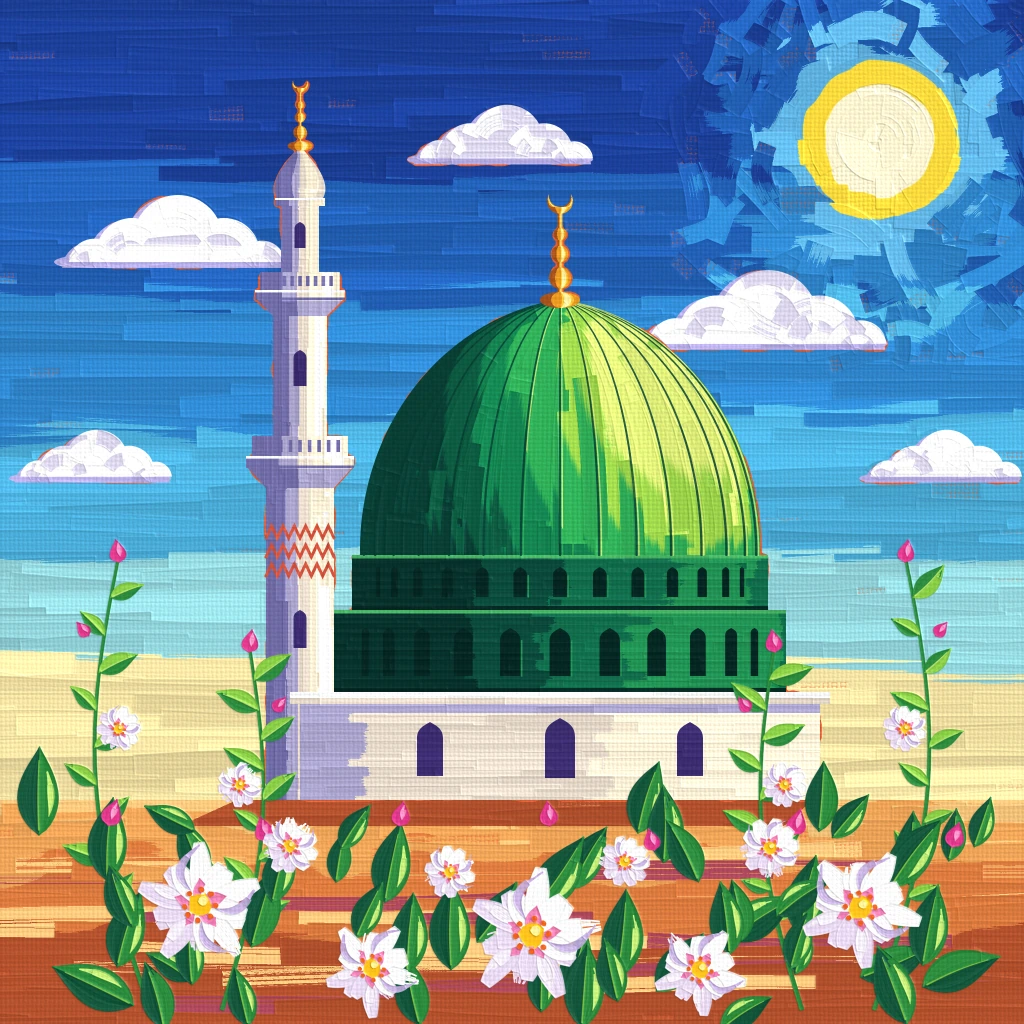
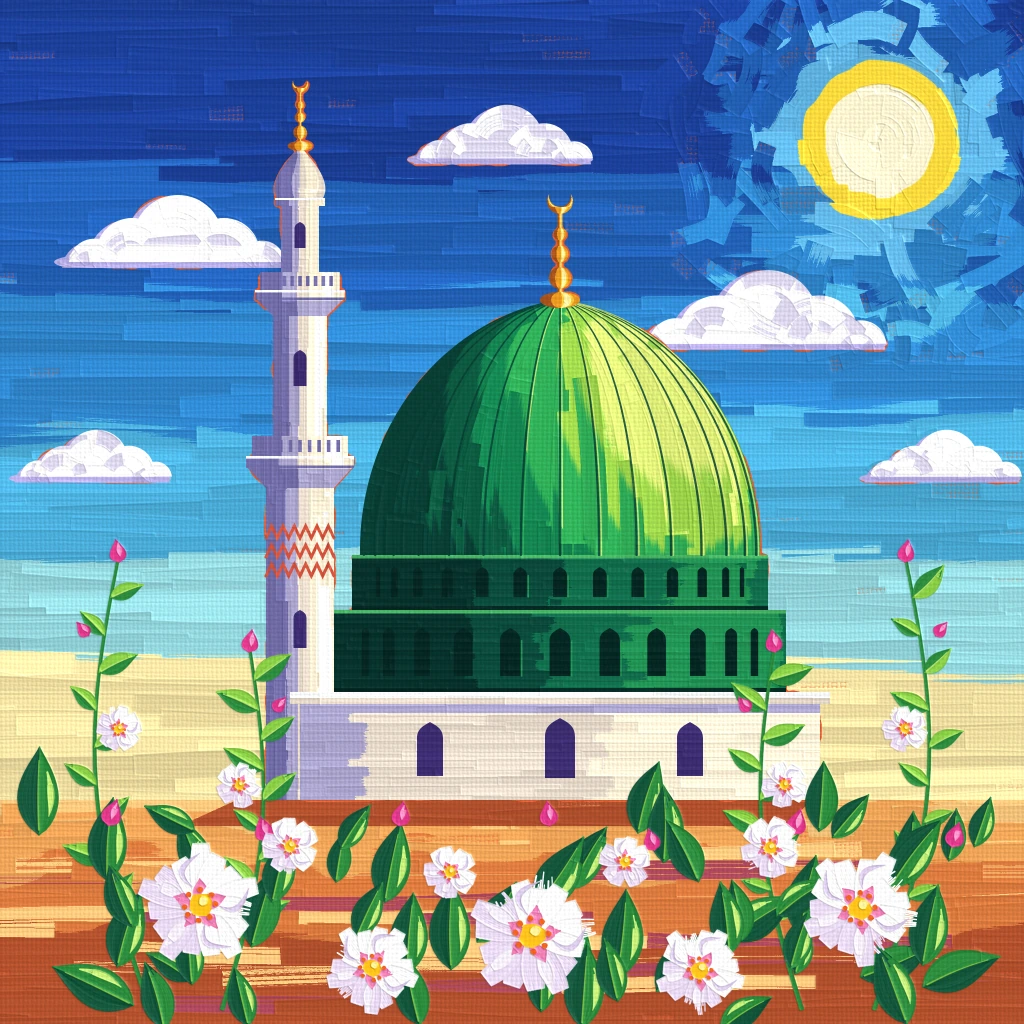
Atölye: airbrush, duvar resmi, akrilik dökme, alkol mürekkebi, tek fırça gözden geçirildi
Claude-Session: https://claude.ai/code/session_01Q8CfoBGMPN7gfLWQYpMs1J

diff --git a/atolye/stiller/S-069-renkli-kazima/ornek.html b/atolye/stiller/S-069-renkli-kazima/ornek.html
@@ -372,7 +372,7 @@
       }
       return false;
     };
-    const mesafe = (x, y) => lerp(10.5, 3.9, isikG(x, y));
+    const mesafe = (x, y) => lerp(12.5, 4.0, Math.pow(isikG(x, y), 0.9));
     const izle = (x0, y0, yonIsaret, Lmax) => {
       const out = []; let x = x0, y = y0, px = 0, py = 0;
       for (let s2 = 0; s2 < Lmax; s2 += 1.5) {
@@ -401,7 +401,7 @@
       for (let i = 1; i < n; i++) {
         const t = i / (n - 1), [x, y] = pts[i];
         const L = isikG(x, y), d = mesafe(x, y);
-        const w = clamp(d * (0.16 + 0.62 * Math.pow(L, 1.2)) * bas, 0.45, 3.4) * Math.pow(Math.sin(Math.PI * clamp(t * 0.94 + 0.03, 0, 1)), 0.45) * (0.85 + 0.3 * nC(ph + i * 0.05, 3.1));
+        const w = clamp(d * (0.12 + 0.62 * Math.pow(L, 1.25)) * bas, 0.42, 3.4) * Math.pow(Math.sin(Math.PI * clamp(t * 0.94 + 0.03, 0, 1)), 0.45) * (0.85 + 0.3 * nC(ph + i * 0.05, 3.1));
         sG.lineWidth = Math.max(0.35, w);
         sG.beginPath(); sG.moveTo(pts[i - 1][0], pts[i - 1][1]); sG.lineTo(x, y); sG.stroke();
       }
@@ -430,7 +430,11 @@
         const dd = BDER[i], bi = BNO[i], s = BUL[bi][2];
         const ust = sstep(BUL[bi][1] + 18 * s, BUL[bi][1] - 40 * s, Yy);
         const c = clamp(0.12 + 0.8 * ust - dd / (40 * s) * 0.3, 0.04, 0.9);
-        m = cizgiMaske(dd / 3.6 + (nA(X / 20, Yy / 20) - 0.5) * 0.25, 3.6 * S, c, kaba);
+        // dış kenarı izleyen birkaç kontur, içi yatay dalgalı tarama (ortada göz gibi kapanan halka kalmasın)
+        const kon = cizgiMaske(dd / 3.6 + (nA(X / 20, Yy / 20) - 0.5) * 0.25, 3.6 * S, c, kaba);
+        const ic = cizgiMaske((Yy + 2.2 * Math.sin(X / 13 + bi)) / 3.3, 3.3 * S, clamp(c * 0.85, 0.05, 0.8), kaba);
+        const kt = sstep(13 * s + 2, 9 * s + 1, dd);
+        m = kon * kt + ic * (1 - kt);
         if (dd < 1.6) m = 1;
         col = karR(col, [255, 255, 255], 0.35);
       } else {
@@ -472,8 +476,8 @@
       const N = Yy < 206 ? 18 : Yy < 300 ? 26 : 32, sp = Math.max(0.6, (Math.PI / N) * r * Math.cos(u)) * S;
       m = cizgiMaske((u + Math.PI / 2) / (Math.PI / N), sp, clamp(Math.pow(L, 1.4) * 0.92, 0, 0.92) * Math.min(1, sp / 3), kaba);
       // ışıklı yanda yatay çapraz tarama (silindiri saran hafif yaylar), gölgede seyrek benek
-      const yay = (Yy + Math.cos(u) * 3.5) / 3;
-      if (L > 0.5) m = Math.max(m, cizgiMaske(yay, 3 * S, (L - 0.5) * 1.2, kaba));
+      const yay = (X * 0.57 - Yy * 0.82 + Math.cos(u) * 4) / 2.8;
+      if (L > 0.66) m = Math.max(m, cizgiMaske(yay, 2.8 * S, (L - 0.66) * 1.6, kaba));
       else { const cs = 3, gx = X / cs, gy = Yy / cs, ix = Math.floor(gx), iy = Math.floor(gy); if (hash(ix + 77, iy + 5) < 0.2 * L + 0.04) m = Math.max(m, sstep(0.3, 0.1, Math.hypot(gx - ix - 0.5, gy - iy - 0.5))); }
       // taş sıraları: siyah derz, hemen altında ışıklı kazıma
       const per = Yy > 488 ? 19 : 17, fy = ((Yy - (Yy > 488 ? 500 : 334)) % per + per) % per;

diff --git a/atolye/stiller/S-042-akrilik/ornek.html b/atolye/stiller/S-042-akrilik/ornek.html
@@ -464,12 +464,12 @@
   }
   // çiçekler: her taç yaprak merkezden dışa 2–3 filbert darbesi; gölgedeki yapraklar leylak, ışıktakiler beyaz,
   // ışık alanların gölge kenarına ince leylak darbe, dibe pembe darbe; göbek kalın boya tıpışları
-  const pprof = (t) => 0.2 + 0.8 * Math.sin(Math.PI * Math.min(1, 0.1 + t * 0.78));
-  const leylakK = mixc(C.cicG, [150, 120, 200], 0.45);
+  const pprof = (t) => 0.35 + 0.65 * Math.sin(Math.PI * Math.min(1, 0.1 + t * 0.68));
+  const leylakK = mixc(C.cicG, [150, 120, 200], 0.25);
   for (const c of B.cicekler) {
     const ns = c.r > 40 ? 3 : 2, yap = SAHNE.tacYapraklari(c).map((e) => ({ e, isik: Math.cos(e.aci + Math.PI / 4) })).sort((a, b) => a.isik - b.isik);
     for (const { e, isik } of yap) {
-      const rx = e.rx, ry = e.ry, temel = isik > -0.15 ? C.cic : C.cicG, yayil = 1.2;
+      const rx = e.rx, ry = e.ry, temel = isik > -0.15 ? C.cic : C.cicG, yayil = 0.9;
       const dar = (dl, u0, u1, lat, n) => {
         const ca = Math.cos(e.aci + dl), sa = Math.sin(e.aci + dl), nx = -Math.sin(e.aci), ny = Math.cos(e.aci), bk = (R() - 0.5) * 0.08 * u1, pts = [];
         for (let j = 0; j <= n; j++) { const t = j / n, u = u0 + (u1 - u0) * t, b = bk * Math.sin(Math.PI * t) + lat * Math.sin(Math.PI * Math.min(1, 0.15 + t * 0.85)); pts.push([c.x + u * ca + nx * b, c.y + u * sa + ny * b]); }
@@ -478,11 +478,11 @@
       for (let k = 0; k < ns; k++) {
         const dl = ((k + 0.5) / ns - 0.5) * yayil / (ns === 3 ? 1.5 : 2) * 2 + (R() - 0.5) * 0.08, cd = Math.cos(dl), sd = Math.sin(dl);
         const sEnd = (2 * cd / rx) / (cd * cd / (rx * rx) + sd * sd / (ry * ry)) * (0.94 + R() * 0.06);
-        boyaFirca(dar(dl, c.r * 0.08, sEnd, 0, 14), ry * 2 * (1.05 / ns) * 1.25, temel, { prof: pprof, kuru: R() < 0.22, jit: 12 });
+        boyaFirca(dar(dl, c.r * 0.08, sEnd * 0.97, 0, 14), ry * 2 * (1.05 / ns) * 1.25, temel, { prof: pprof, kuru: R() < 0.12, jit: 12 });
       }
       if (isik > -0.15) {
         const nx = -Math.sin(e.aci), ny = Math.cos(e.aci), yan = nx * 0.7 - ny * 0.7 > 0 ? -1 : 1; // ışıktan uzak kenar
-        boyaFirca(dar(0, c.r * 0.22, rx * 1.85, yan * ry * 0.72, 12), ry * 0.34, leylakK, { prof: (t) => Math.sin(Math.PI * t), kuru: true, jit: 8, a: 0.85 });
+        boyaFirca(dar(0, c.r * 0.3, rx * 1.6, yan * ry * 0.66, 12), ry * 0.22, leylakK, { prof: (t) => Math.sin(Math.PI * t), kuru: false, jit: 6, a: 0.7 });
       } else {
         boyaFirca(dar(0.1, c.r * 0.25, rx * 1.7, 0, 12), ry * 0.5, mixc(C.cicG, C.cic, 0.55), { prof: (t) => Math.sin(Math.PI * t), kuru: true, jit: 8, a: 0.9 });
       }

diff --git a/atolye/stiller/S-056-kuru-boya/ornek.html b/atolye/stiller/S-056-kuru-boya/ornek.html
@@ -637,7 +637,12 @@
   katman((x) => tacCiz(x, hex('#F7A2C0'), (c, e, yon) => 0.85 + 0.15 * (yon < 0), { aralik: 1.4, kal: 1.6, boy: [0.8, 0.35] }), { bx: cBx, guc: 1.15 });
   katman((x) => tacCiz(x, hex('#D8387A'), (c, e, yon) => 0.85, { aralik: 1.7, kal: 1.55, boy: [0.3, 0.3] }), { bx: cBx, guc: 1.1 });
   katman((x) => tacCiz(x, hex('#9A7FD6'), (c, e, yon) => (yon < -0.1 ? 0.8 : yon < 0.3 ? 0.35 : 0.0), { aralik: 2.0, kal: 1.45, boy: [0.55, 0.45] }), { bx: cBx });
-  katman((x) => tacCiz(x, hex('#FFF4F8'), (c, e, yon) => (yon > 0.2 ? 0.85 : 0.0), { aralik: 1.8, kal: 1.8, boy: [0.75, 0.3] }), { bx: cBx, opq: 0.6 });
+  // ışığa bakan taç yapraklarının uçları beyazla cilalanmış
+  katman((x) => { B.cicekler.forEach((c) => SAHNE.tacYapraklari(c).forEach((e) => {
+    const yon = Math.cos(e.aci) * 0.74 + Math.sin(e.aci) * -0.67; if (yon < 0.05) return;
+    const tx = e.cx + Math.cos(e.aci) * e.rx * 0.55, ty = e.cy + Math.sin(e.aci) * e.rx * 0.55, rr = e.rx * 0.6;
+    x.save(); x.clip(P2(SAHNE.elipsYolu(e))); x.beginPath(); x.arc(tx, ty, rr, 0, 7); x.clip();
+    taraK(x, { bx: [tx - rr, ty - rr, tx + rr, ty + rr], aci: e.aci, aciJ: 0.15, aralik: 1.7, boy: rr * 0.9, kal: 1.8, alfa: 0.75 * Math.min(1, yon + 0.3), renk: hex('#FFF6FA'), obek: rr * 0.8, sik: 0.45 }, r); x.restore(); })); }, { bx: cBx, opq: 0.62 });
   katman((x) => tacCiz(x, hex('#8E2A62'), (c, e, yon) => 0.85, { aralik: 2.4, kal: 1.3, boy: [0.06, 0.12] }), { bx: cBx });
   // göbekler
   katman((x) => { for (const c of B.cicekler) { x.save(); x.beginPath(); x.arc(c.x, c.y, c.r * 0.22, 0, 7); x.clip(); taraK(x, { bx: [c.x - c.r * 0.3, c.y - c.r * 0.3, c.x + c.r * 0.3, c.y + c.r * 0.3], aci: egik, aralik: 1.5, boy: 12, kal: 1.4, alfa: 0.9, renk: hex('#F5C832'), obek: 10, sik: 0.4 }, r); x.restore(); } },
